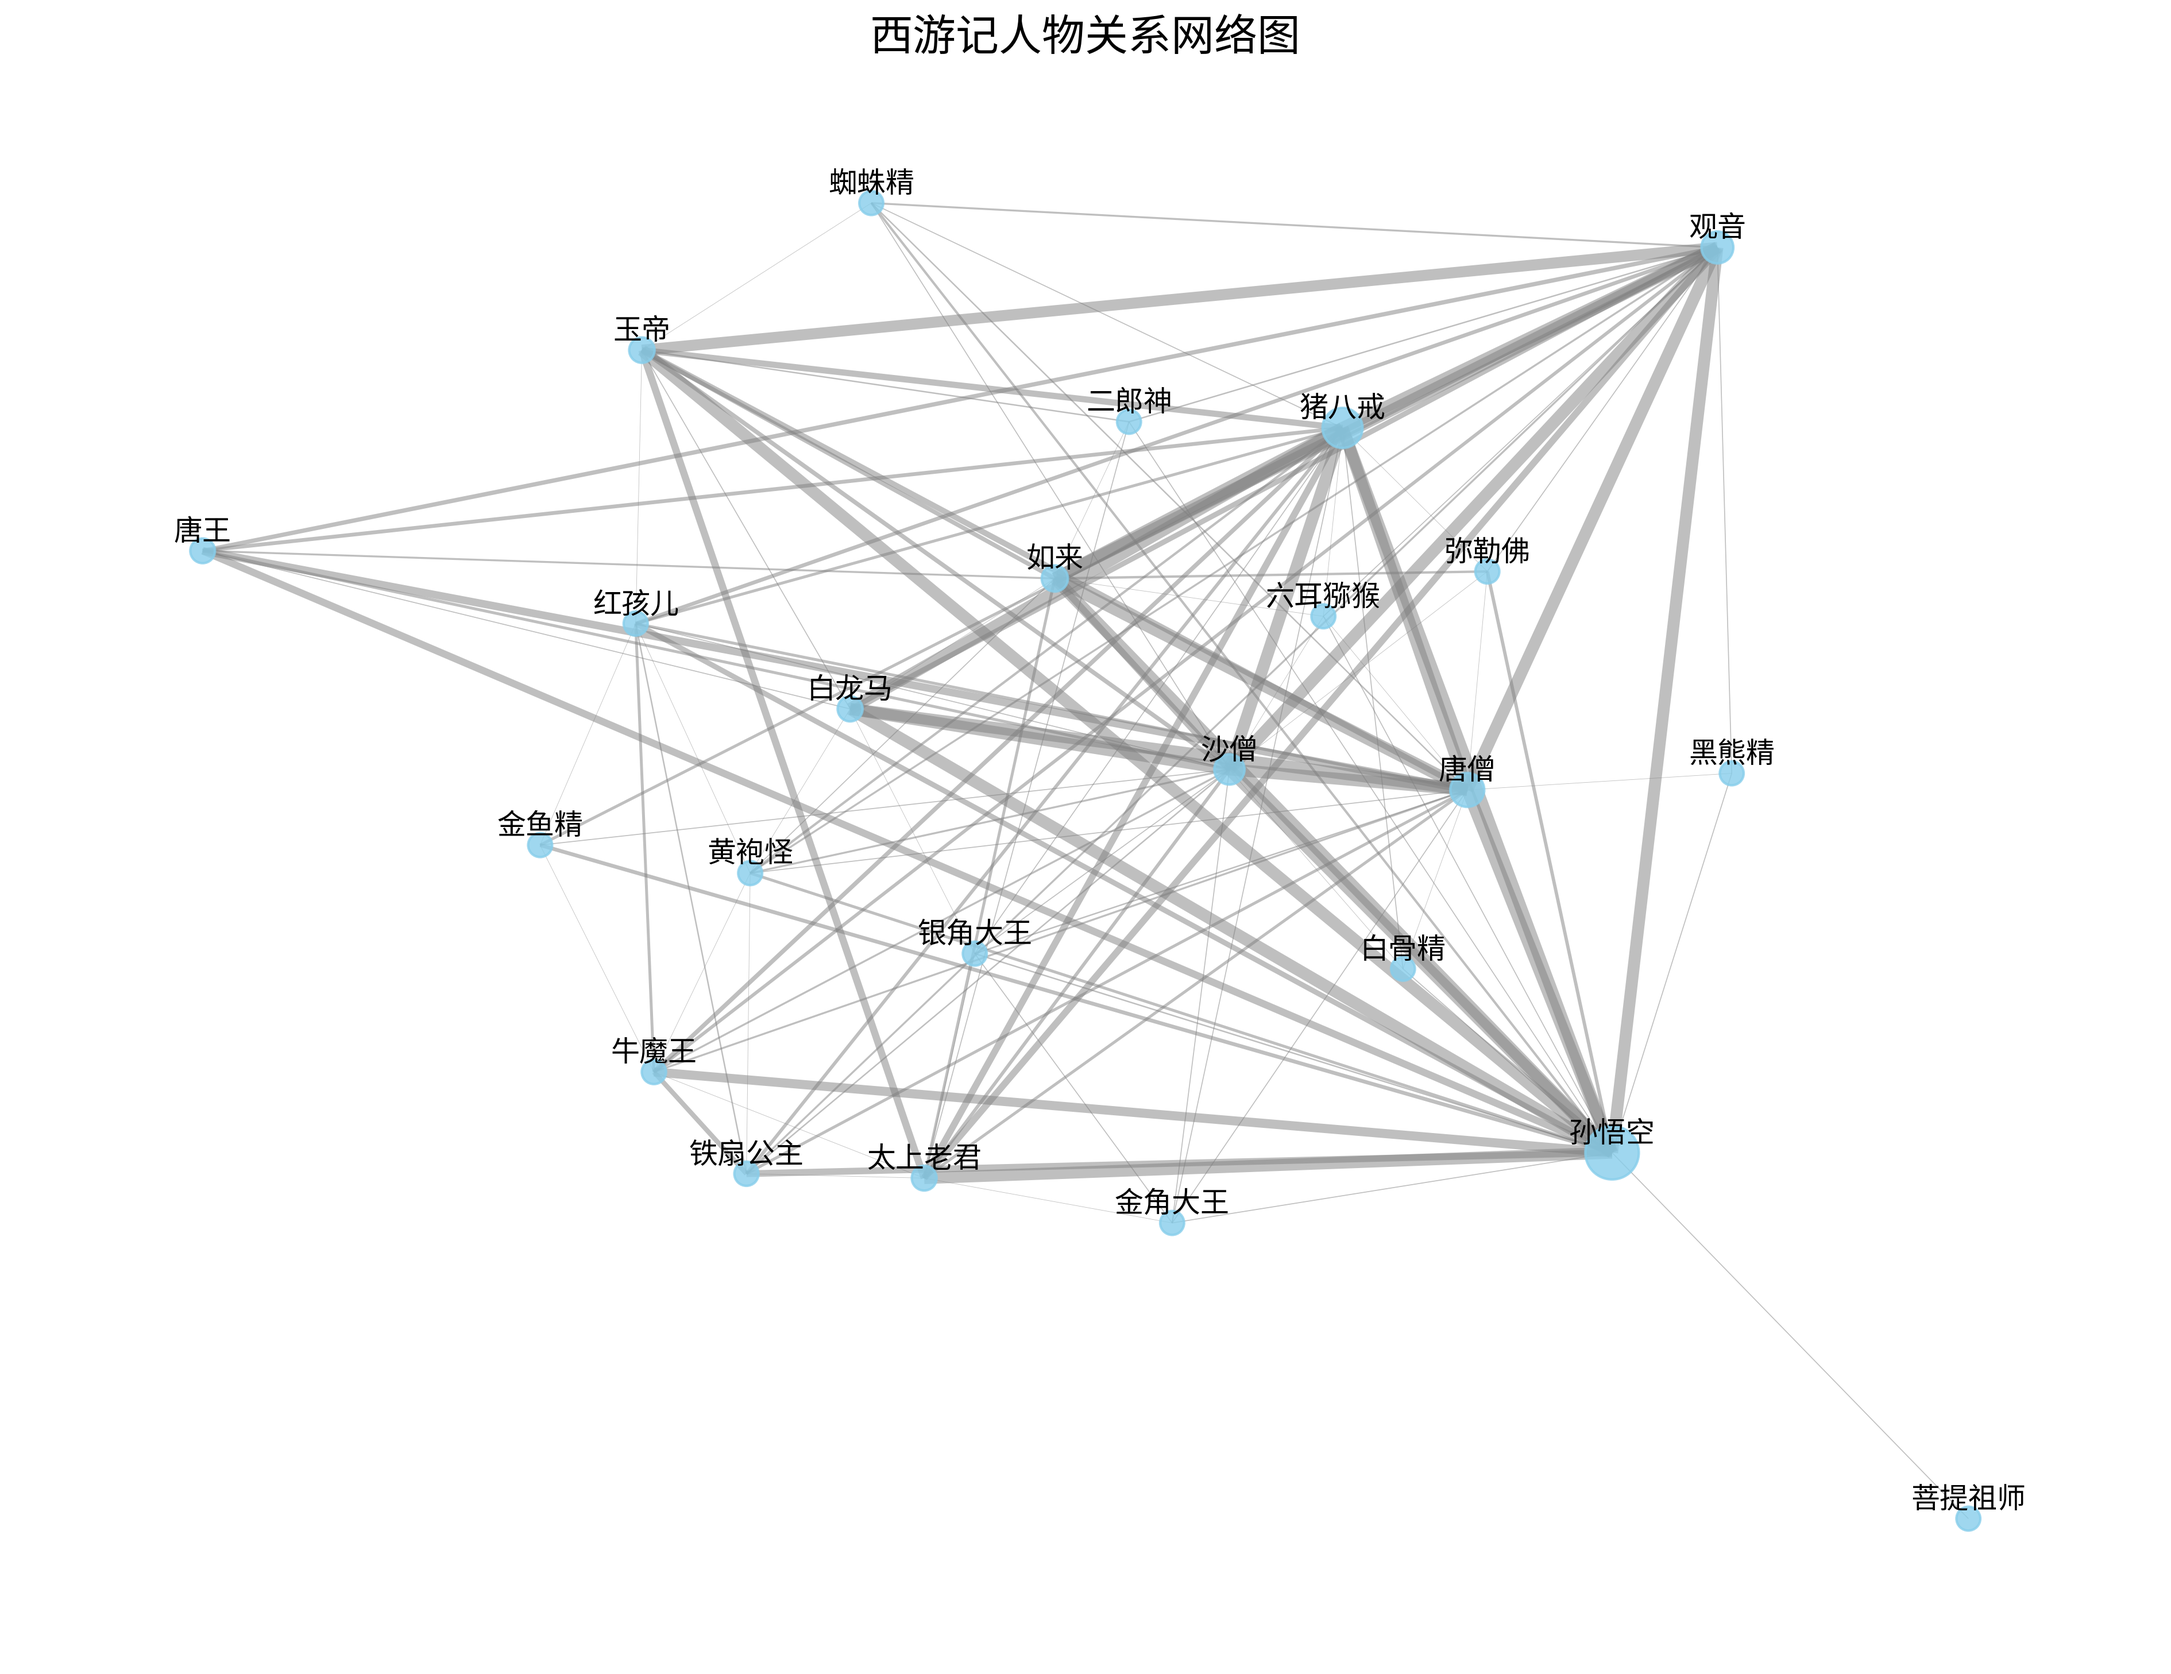
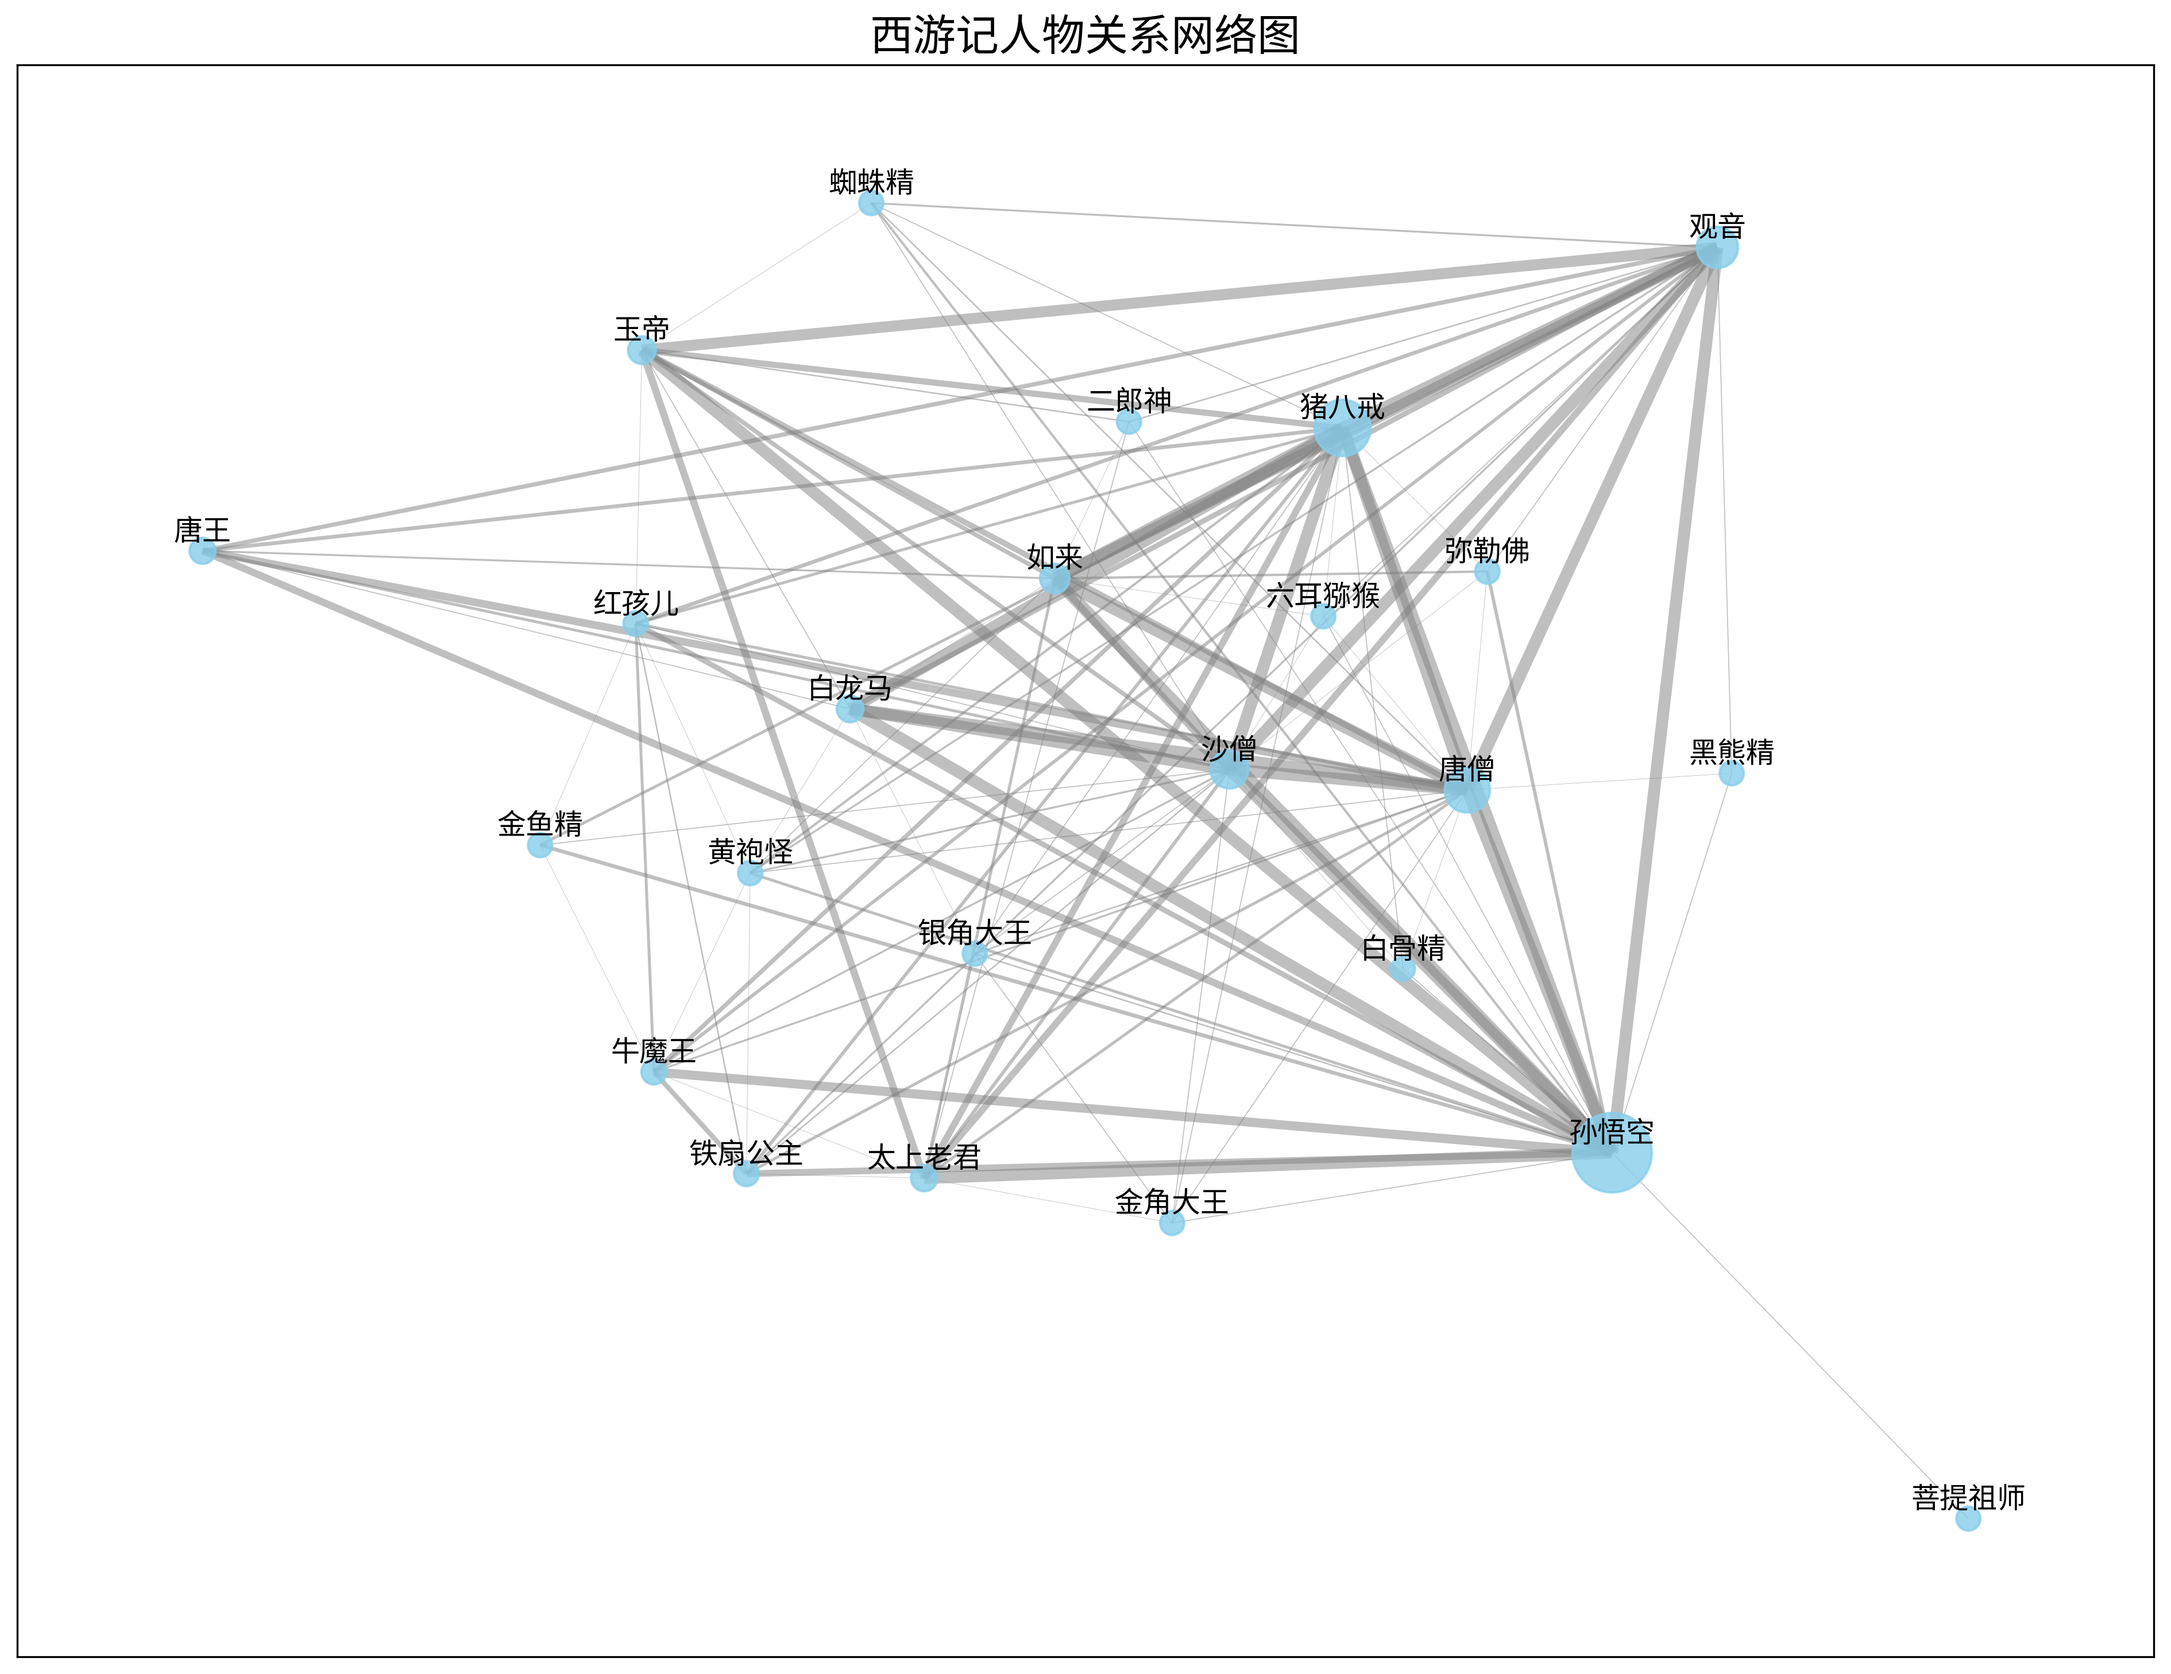
gitignore update
更新 .gitignore 规则，确保忽略相关文件

update

diff --git a/A3.py b/A3.py
@@ -281,8 +281,8 @@ for name1, related in relationships.items():
 node_sizes = [G.nodes[character]['weight'] * 5 for character in G.nodes]
 max_node_size = max(node_sizes)
 min_node_size = min(node_sizes)
-# 缩放节点大小到合理范围(100-500)，避免极大或极小节点
-node_sizes = [100 + (ns - min_node_size) * 400 / (max_node_size - min_node_size) for ns in node_sizes]
+# 缩放节点大小到范围(100-1000)，避免极大或极小节点(测试的时候出现了问题)
+node_sizes = [100 + (ns - min_node_size) * 1000 / (max_node_size - min_node_size) for ns in node_sizes]
 
 # 设置边的宽度，基于共现频率
 edge_weights = [G[u][v]['weight'] * 0.2 for u, v in G.edges]
@@ -294,7 +294,7 @@ font_prop = FontProperties(fname=FONT_PATH)
 
 # 绘制网络图
 plt.figure(figsize=(16, 12))  # 创建大尺寸图形
-pos = nx.kamada_kawai_layout(G)  # 使用Kamada-Kawai算法计算节点位置，减少节点重叠
+pos = nx.kamada_kawai_layout(G)  # 使用Kamada-Kawai算法计算节点位置，减少节点重叠,这个确实一开始没想到
 
 # 绘制节点
 nx.draw_networkx_nodes(G, pos, node_size=node_sizes, node_color="skyblue", alpha=0.8)
@@ -310,7 +310,7 @@ for node, (x, y) in pos.items():
 
 # 添加标题
 plt.title("西游记人物关系网络图", fontproperties=font_prop, fontsize=18)
-plt.axis("off")  # 不显示坐标轴
+plt.axis("on")  # 不显示坐标轴
 
 # 保存网络图到文件
 plt.savefig(os.path.join(OUTPUT_DIR, "西游记人物关系网络图.png"), dpi=300, bbox_inches='tight')
